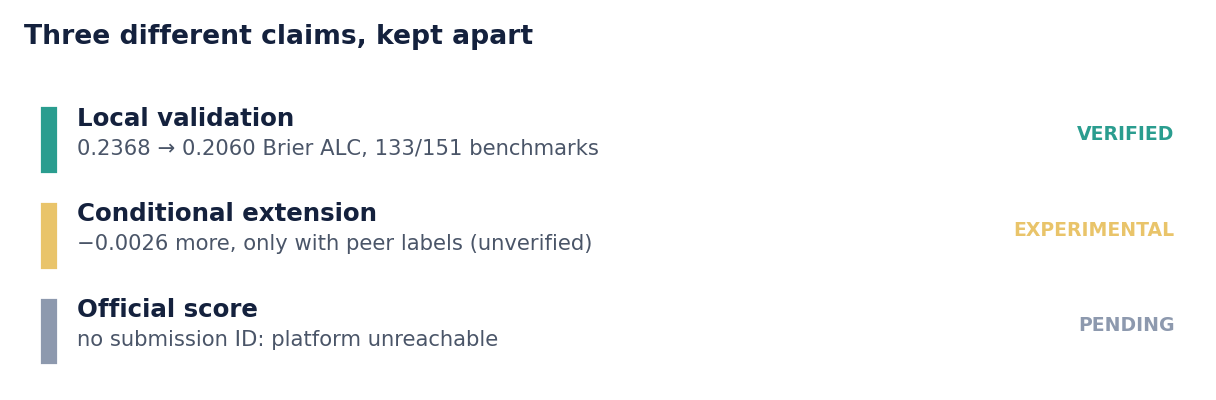
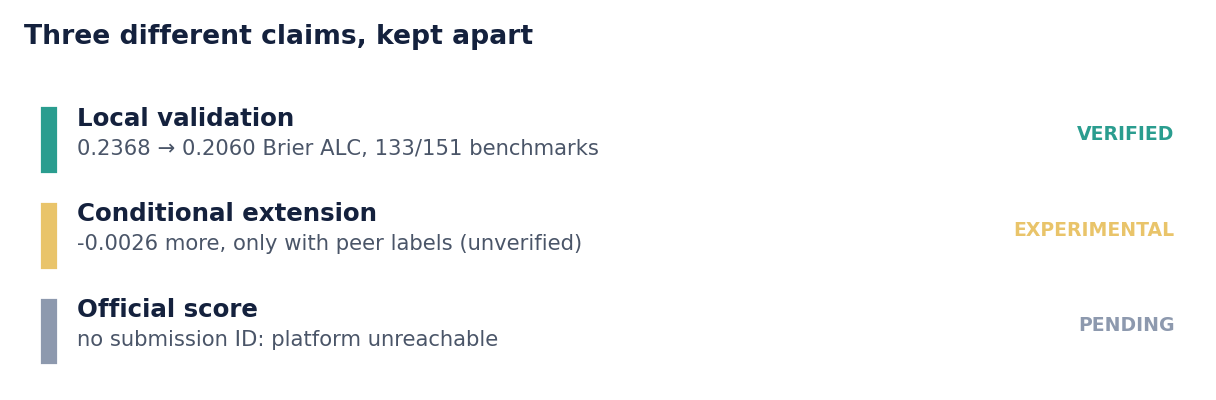
Correct the repository defects found by independent review
- README: the downloader needs --data; the previous command failed on a clean clone.
- build/make_figures.py: figure 4 read its numbers from results/ instead of
  typing them; the earlier claim that no figure number was hand-typed was false.
- ERRATA.md: lists what remains wrong or unreproduced and what was done about it.
  The deposited report and the archives are unchanged on purpose: they are
  already with the organisers, and a new version is the author's decision.
- docs/evidence: both submission archives pass the official checker (status 0).
- CIERRE_AIMS: dated update with the organisers' position and the pending
  actions for the author.

Changed region(s): [[0.0625, 0.57, 0.5, 0.63]]

diff --git a/build/make_figures.py b/build/make_figures.py
@@ -183,9 +183,23 @@ def fig_status(repo, out):
     """What is validated locally, what is conditional and what is still pending."""
     fig, ax = plt.subplots(figsize=(7.6, 2.5))
     ax.axis("off")
+    # Every number on this figure is read from results/, not typed here.
+    # (An earlier version hard-coded 0.2368, 0.2060, 133/151 and -0.0026.)
+    s = pd.read_csv(os.path.join(repo, "results", "summary.csv")).set_index("method")
+    u = {d["method"]: d for d in json.load(
+        open(os.path.join(repo, "results", "uncertainty.json"), encoding="utf-8"))}
+    c = {d["method"]: d for d in json.load(
+        open(os.path.join(repo, "results", "context_summary.json"), encoding="utf-8"))}
+    ref = s.loc["empirical_mean", "brier_alc"]
+    ours = s.loc["original_beta3", "brier_alc"]
+    won = u["original_beta3"]["benchmarks_improved"]
+    n_b = u["original_beta3"]["n_benchmarks"]
+    extra = c["fallback_safe_cohort4"]["difference"]
     items = [
-        ("Local validation", "0.2368 → 0.2060 Brier ALC, 133/151 benchmarks", GOOD, "verified"),
-        ("Conditional extension", "−0.0026 more, only with peer labels (unverified)", "#e9c46a", "experimental"),
+        ("Local validation", f"{ref:.4f} → {ours:.4f} Brier ALC, {won}/{n_b} benchmarks",
+         GOOD, "verified"),
+        ("Conditional extension", f"{extra:+.4f} more, only with peer labels (unverified)",
+         "#e9c46a", "experimental"),
         ("Official score", "no submission ID: platform unreachable", MUTED, "pending"),
     ]
     for i, (title, body, colour, tag) in enumerate(items):

diff --git a/ERRATA.md b/ERRATA.md
@@ -1,0 +1,118 @@
+# Errata and known deviations
+
+This file lists what is wrong, unverified or only partly reproducible in the
+published material, and what was done about it. It is written to be read
+against the README, the report and the submission archives.
+
+**Two rules applied.** Nothing already deposited with the organisers has been
+edited: the report PDF (SHA-256 `5510cd7…`) and both ZIP archives are unchanged,
+because changing them would mean sending a new version outside, which is a
+decision for the author. Corrections therefore live here and in the README.
+Where a statement below comes from the independent review and I did not
+reproduce it myself, it is marked as such.
+
+Last update: 2026-10-25.
+
+---
+
+## Corrected in this update
+
+1. **Download command.** The README ran `audit/download_pinned.py` without
+   `--data`, which the script requires, so a clean clone failed. Fixed in the
+   README.
+
+2. **Official checker.** The statement that both archives pass the published
+   `check_submission_zip.py` had no log behind it. Both were run on 2026-10-25
+   and return status 0 with `OK`. Logs are in `docs/evidence/`.
+
+3. **Figure 4 hard-coded numbers.** `build/make_figures.py` typed `0.2368`,
+   `0.2060`, `133/151` and `-0.0026` into the figure, which contradicted the
+   claim that no figure number is typed by hand. The figure now reads its
+   numbers from `results/`. The image is unchanged in content.
+
+---
+
+## Not corrected: deposited material, needs the author's decision
+
+4. **Unsupported bootstrap in the report.** `report/informe_v2.tex` (around line
+   151) quotes an "independent 10,000-benchmark bootstrap" with interval
+   `[-0.04107, -0.02854]`. No script or result file in the repository produces
+   it. The phrase "10,000-benchmark" is also loose: it means 10,000 resamples of
+   the 101 benchmarks. Treat the interval as unsupported until a generator is
+   committed.
+
+5. **Mislabelled test in the submitted docstring.** The docstring of
+   `submission_original.zip/model.py` refers to a "sign-flip" p = 0.43. The
+   test actually used is an exact binomial sign test. The report says so
+   (around line 153). The archive itself is left as deposited.
+
+---
+
+## Reproducibility gaps
+
+6. **Code changed after some scores were computed.** The list is in
+   `results/final_code_changes.json`. Among the changes: an IC99 interval for
+   five candidates in place of the earlier interval, a cache-semantics guard,
+   and a changed way of locating the original model. The README did not say so
+   before this file.
+
+7. **Hashes not recorded in the locks.** `audit/build_independent.py`,
+   `audit/evaluate_independent.py` and `audit/evaluate_context.py` do not appear
+   in any preregistration or lock file. Only `audit/context_model.py` matches its
+   recorded lock (`64d53e…`). The results were produced by earlier versions of
+   these scripts, so a clean run of the current scripts is not guaranteed to
+   reproduce every JSON byte for byte.
+
+8. **Result files without a generator in the repository.** These have no script
+   here that writes them: `results/final_context_config.json`,
+   `results/provenance_validation.json`, `results/sampling_endpoint_comparison.json`,
+   `results/aggregate_cache_comparison.parquet`, `results/all_pair_aggregates.parquet`,
+   and the supporting and historical manifests.
+
+9. **The original-protocol replication is not portable.**
+   `audit/replicate_original_design.py` reads `E:\AIMS-sprint\work\*.parquet`
+   and a catalogue file that are not in the repository. The replication
+   `0.2453845 → 0.2104970` cannot be rerun from a clean clone as shipped.
+
+---
+
+## Choices that need stating plainly
+
+10. **The contextual candidate's ρ = 0.5 was not fixed in advance.** It was
+    already the research default in `audit/context_model.py` when the
+    preregistration was locked, and `EXPERIMENT_D.md` gives no rule for picking a
+    single final ρ. The independent review reports that an unweighted mean
+    across folds would select ρ = 1.0 (0.20519 against 0.20546). I did not
+    reproduce that figure. The IC99 for five candidates was not preregistered:
+    the preregistration specified an IC98.75 for four families.
+
+11. **The submitted S = 3 was chosen on the earlier development split.** It is
+    the argmin on that split, documented in `results/hiper.json`. The independent
+    review reports that under the new nested validation S = 3 wins in only one
+    of five folds. I did not reproduce this. The headline figures of the
+    submitted predictor are the earlier protocol's; the new protocol's figures
+    are separate and labelled as such.
+
+12. **"No leakage found" has a narrow scope.** The keyword screen covered 60 of
+    the 165 binary benchmarks, and its outcome in `results/auditoria.json` is
+    "INDICIO SIN CONFIRMAR", not a clean result. It is evidence of no keyword
+    hit in those 60, not of absence.
+
+13. **Mixed protocols in the README tables.** Some rows in the negative-results
+    table come from the earlier randomised-order protocol and some from the new
+    protocol. The review flags rows that do not say which. Read each number with
+    the protocol named in its row.
+
+---
+
+## Not affected
+
+- The headline figures of the new protocol (0.236814 → 0.205984, 133/151,
+  interval `[-0.038426, -0.027214]`) were re-derived from the pair-level parquet
+  files by the independent review and match `results/summary.csv` and
+  `results/uncertainty.json`.
+- No reported figure is presented as an official score, a ranking or an
+  acceptance. The contextual extension is marked experimental and conditional on
+  an availability that is not verified.
+- The rule that the sprint must not use Python's `hash()` for partitions holds
+  in the current scripts: seeds come from SHA-256 or blake2b.

diff --git a/CIERRE_AIMS.md b/CIERRE_AIMS.md
@@ -125,3 +125,21 @@ El archivo `UTILIDADES_HERRAMIENTAS_APIs.txt` quedó expuesto en una sesión ant
 ---
 
 *Documento factual. Cada URL y cada estado de este archivo se comprobó en la sesión del 24-10-2026. Donde algo no está hecho, dice que no lo está.*
+
+---
+
+## 10. Actualización del 25-10-2026: revisión independiente y estado
+
+- **Codabench** sigue sin responder. Comprobado el 25-10 a las 09:32 UTC (tiempo de espera de 12 s). La organización reconoció la caída el 24-10 a las 14:20 UTC, pero **no autorizó una vía alternativa y no acepta la participación** ([registro](docs/evidence/organiser_reply_20261024.json)).
+- **Validador oficial.** Los dos ZIP pasan `check_submission_zip.py` con estado 0. Los logs están en `docs/evidence/official_checker_*_20261025.txt`. Antes esta afirmación no tenía registro.
+- **Revisión adversaria independiente** (Opus, solo lectura, 1,75 USD de créditos API). Encontró defectos en el repositorio. Corregidos aquí: el comando de descarga del README, que fallaba en un clon limpio, y la figura 4, que tenía cifras escritas a mano y contradecía la afirmación de este documento. El resto está listado en [`ERRATA.md`](ERRATA.md).
+- **No se ha modificado** el informe PDF ni los ZIP depositados, porque ya están en poder de la organización. Cualquier versión nueva requiere una decisión de Fran.
+- **Sprint de Stanford AIMS.** Su plazo de 24 h se cumplió el 24-10 a las 21:11 UTC y se cerró en el sistema de concursos. La entrega sigue bloqueada por la plataforma; el cierre del sprint no equivale a una entrega.
+
+**Pendiente de Fran (acciones que no puede hacer el sistema):**
+
+1. Revisar [`ERRATA.md`](ERRATA.md) y decidir si se envía una versión corregida del informe a la organización.
+2. En YouTube Studio: desactivar los subtítulos automáticos en inglés y corregir el idioma del vídeo, que figura como español.
+3. Rotar las claves del fichero expuesto en una sesión anterior.
+4. Si quiere seguir la caída, el canal de la organización es su Discord (AI Measurement Science). Unirse es crear una cuenta, así que lo hace Fran.
+5. Seguir la moderación del perfil de OpenReview. Eso acredita el alta, no la aceptación del informe.

diff --git a/README.md b/README.md
@@ -165,8 +165,8 @@ revision `54074453da7b9911be0f48e4c560be547bc84d21` with per-file SHA-256, and
 fetches **5,354,371,887 bytes** across **890 files**:
 
 ```bash
-export AIMS_DATA=/path/with/space        # set AIMS_DATA on Windows too
-python audit/download_pinned.py          # verifies every hash
+python audit/download_pinned.py --data /path/with/space   # verifies every hash
+# (--data is required; the script does not read AIMS_DATA on its own)
 python audit/build_independent.py        # 151 benchmarks, 13,200 pairs
 python audit/evaluate_independent.py     # Table above
 python audit/evaluate_context.py         # conditional extension
@@ -189,6 +189,9 @@ docs/video/    narration script, render scripts, thumbnail and timings
 ```
 
 ## Limitations
+
+Errata, known deviations and what was not reproduced: see [`ERRATA.md`](ERRATA.md).
+
 
 Local validation is not an official score. We report Brier ALC on public
 benchmarks held out from each other, which is a proxy for the private pool. The
